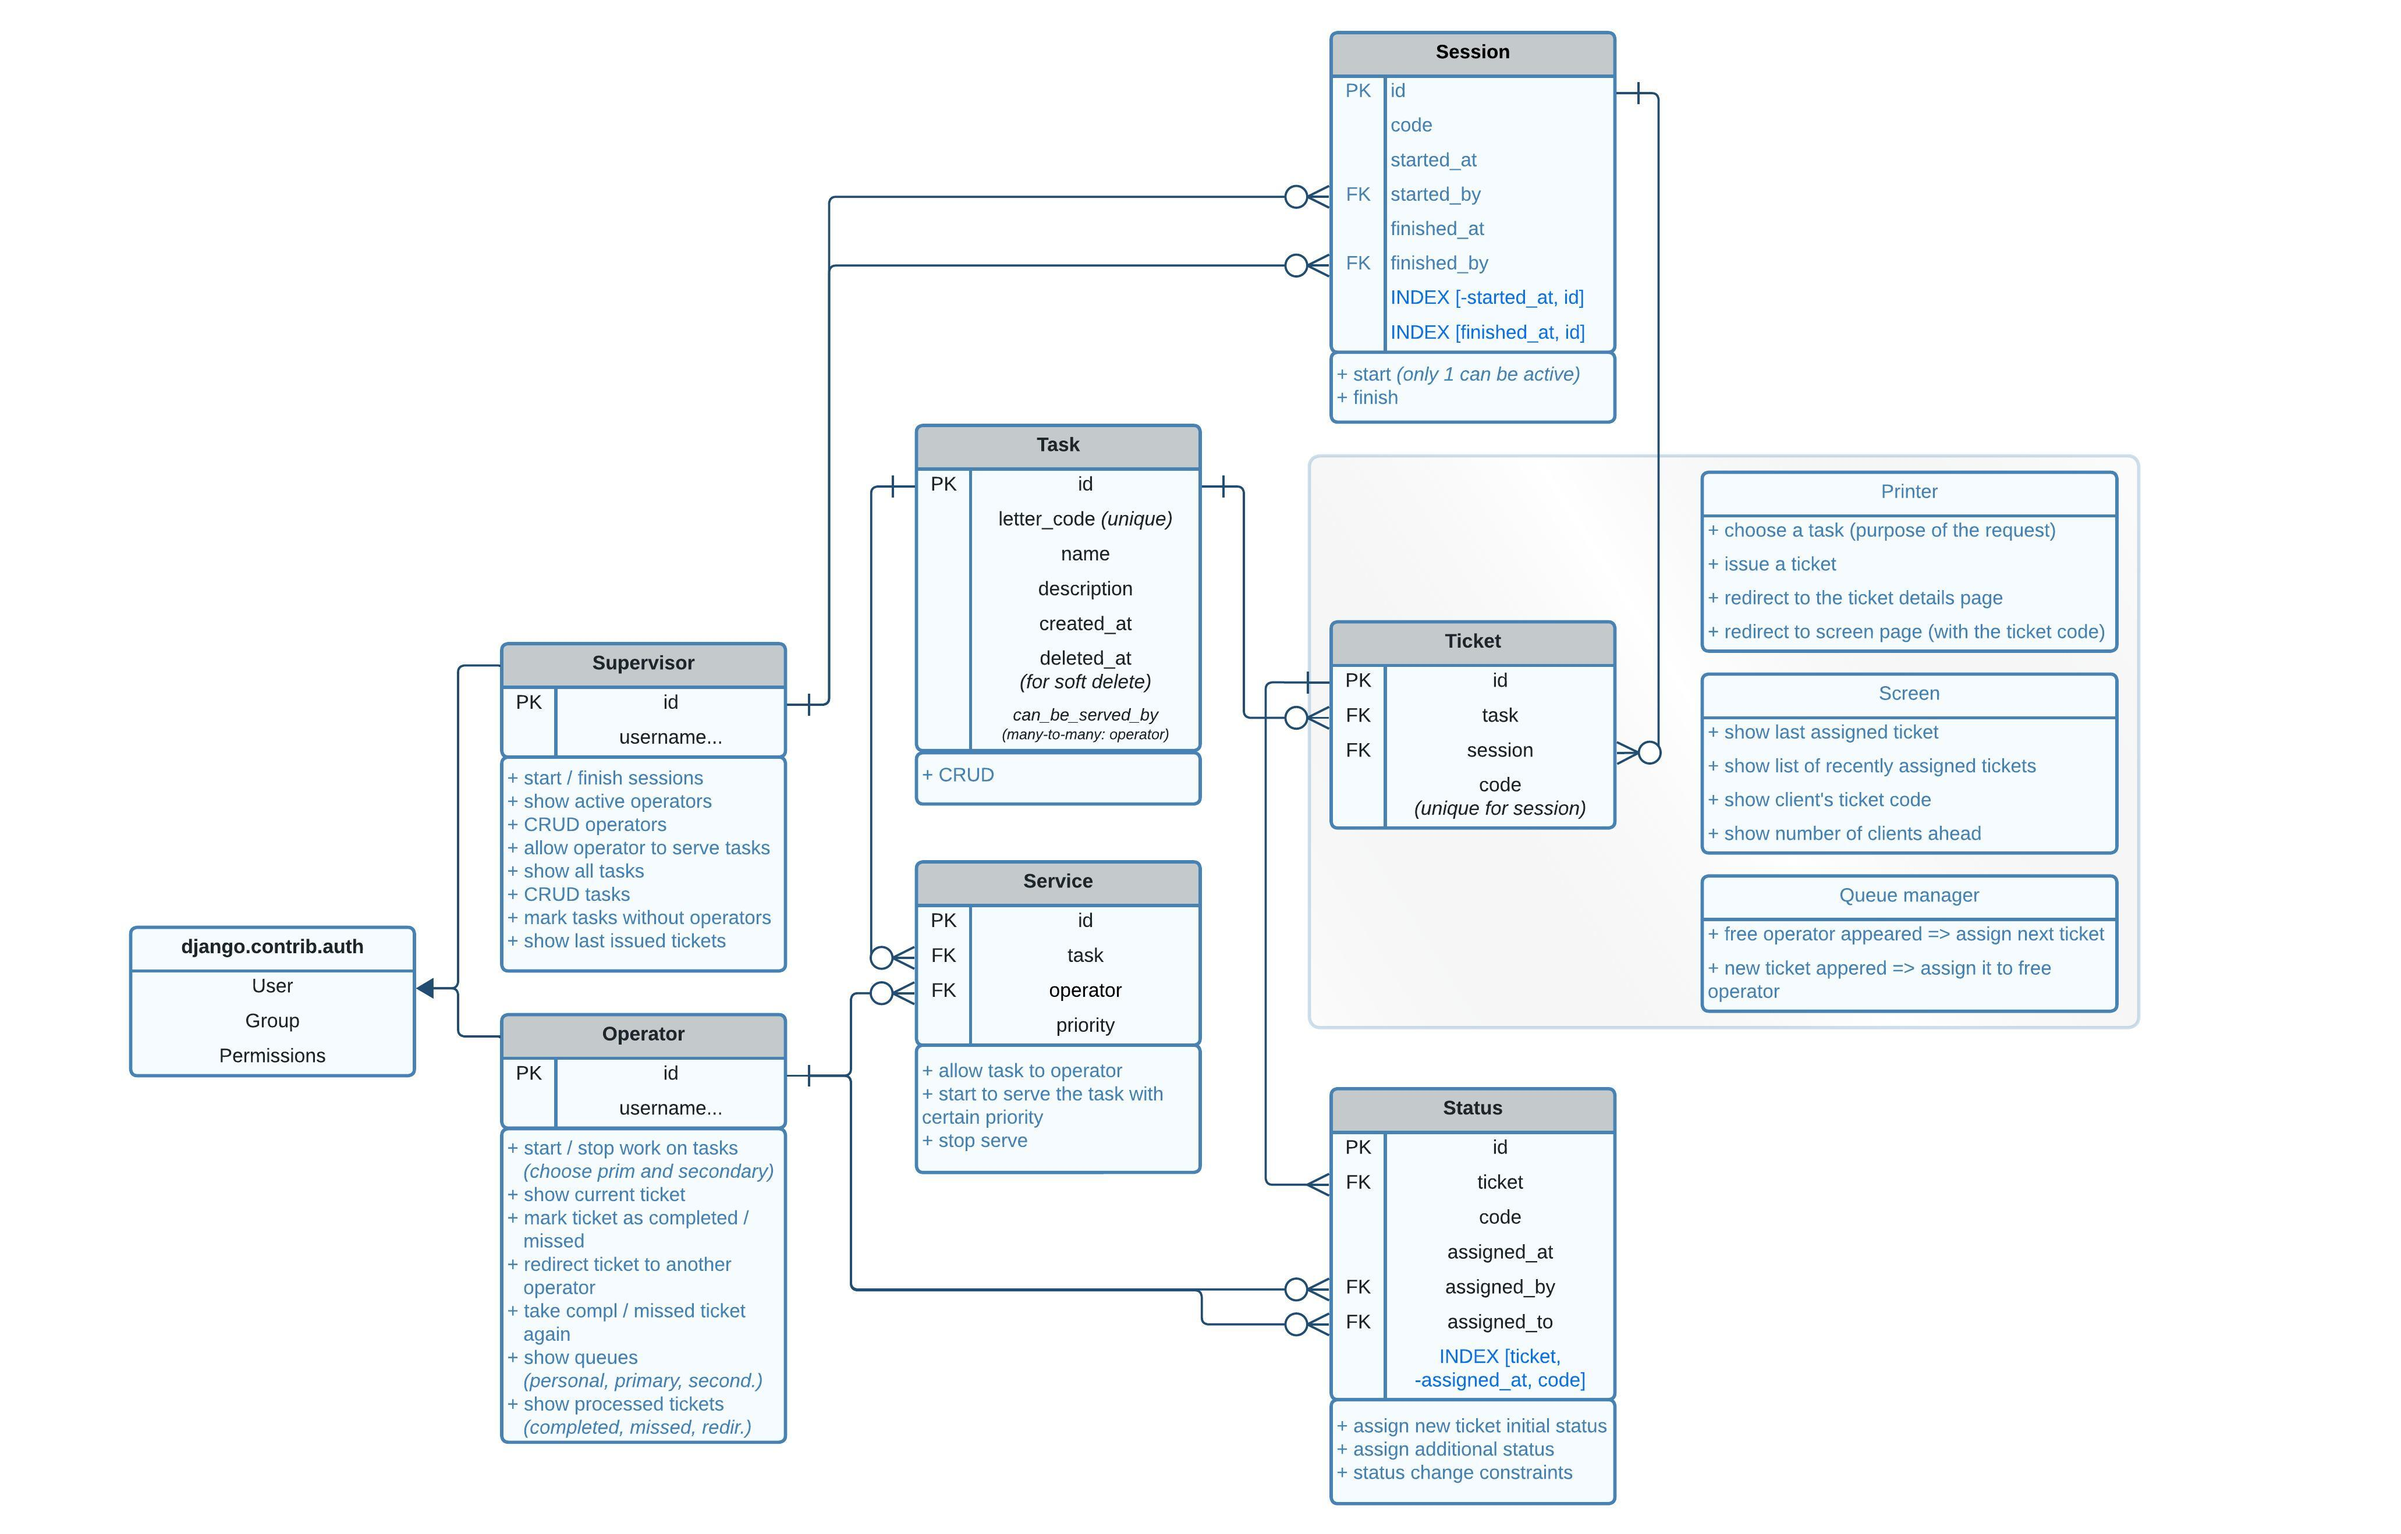
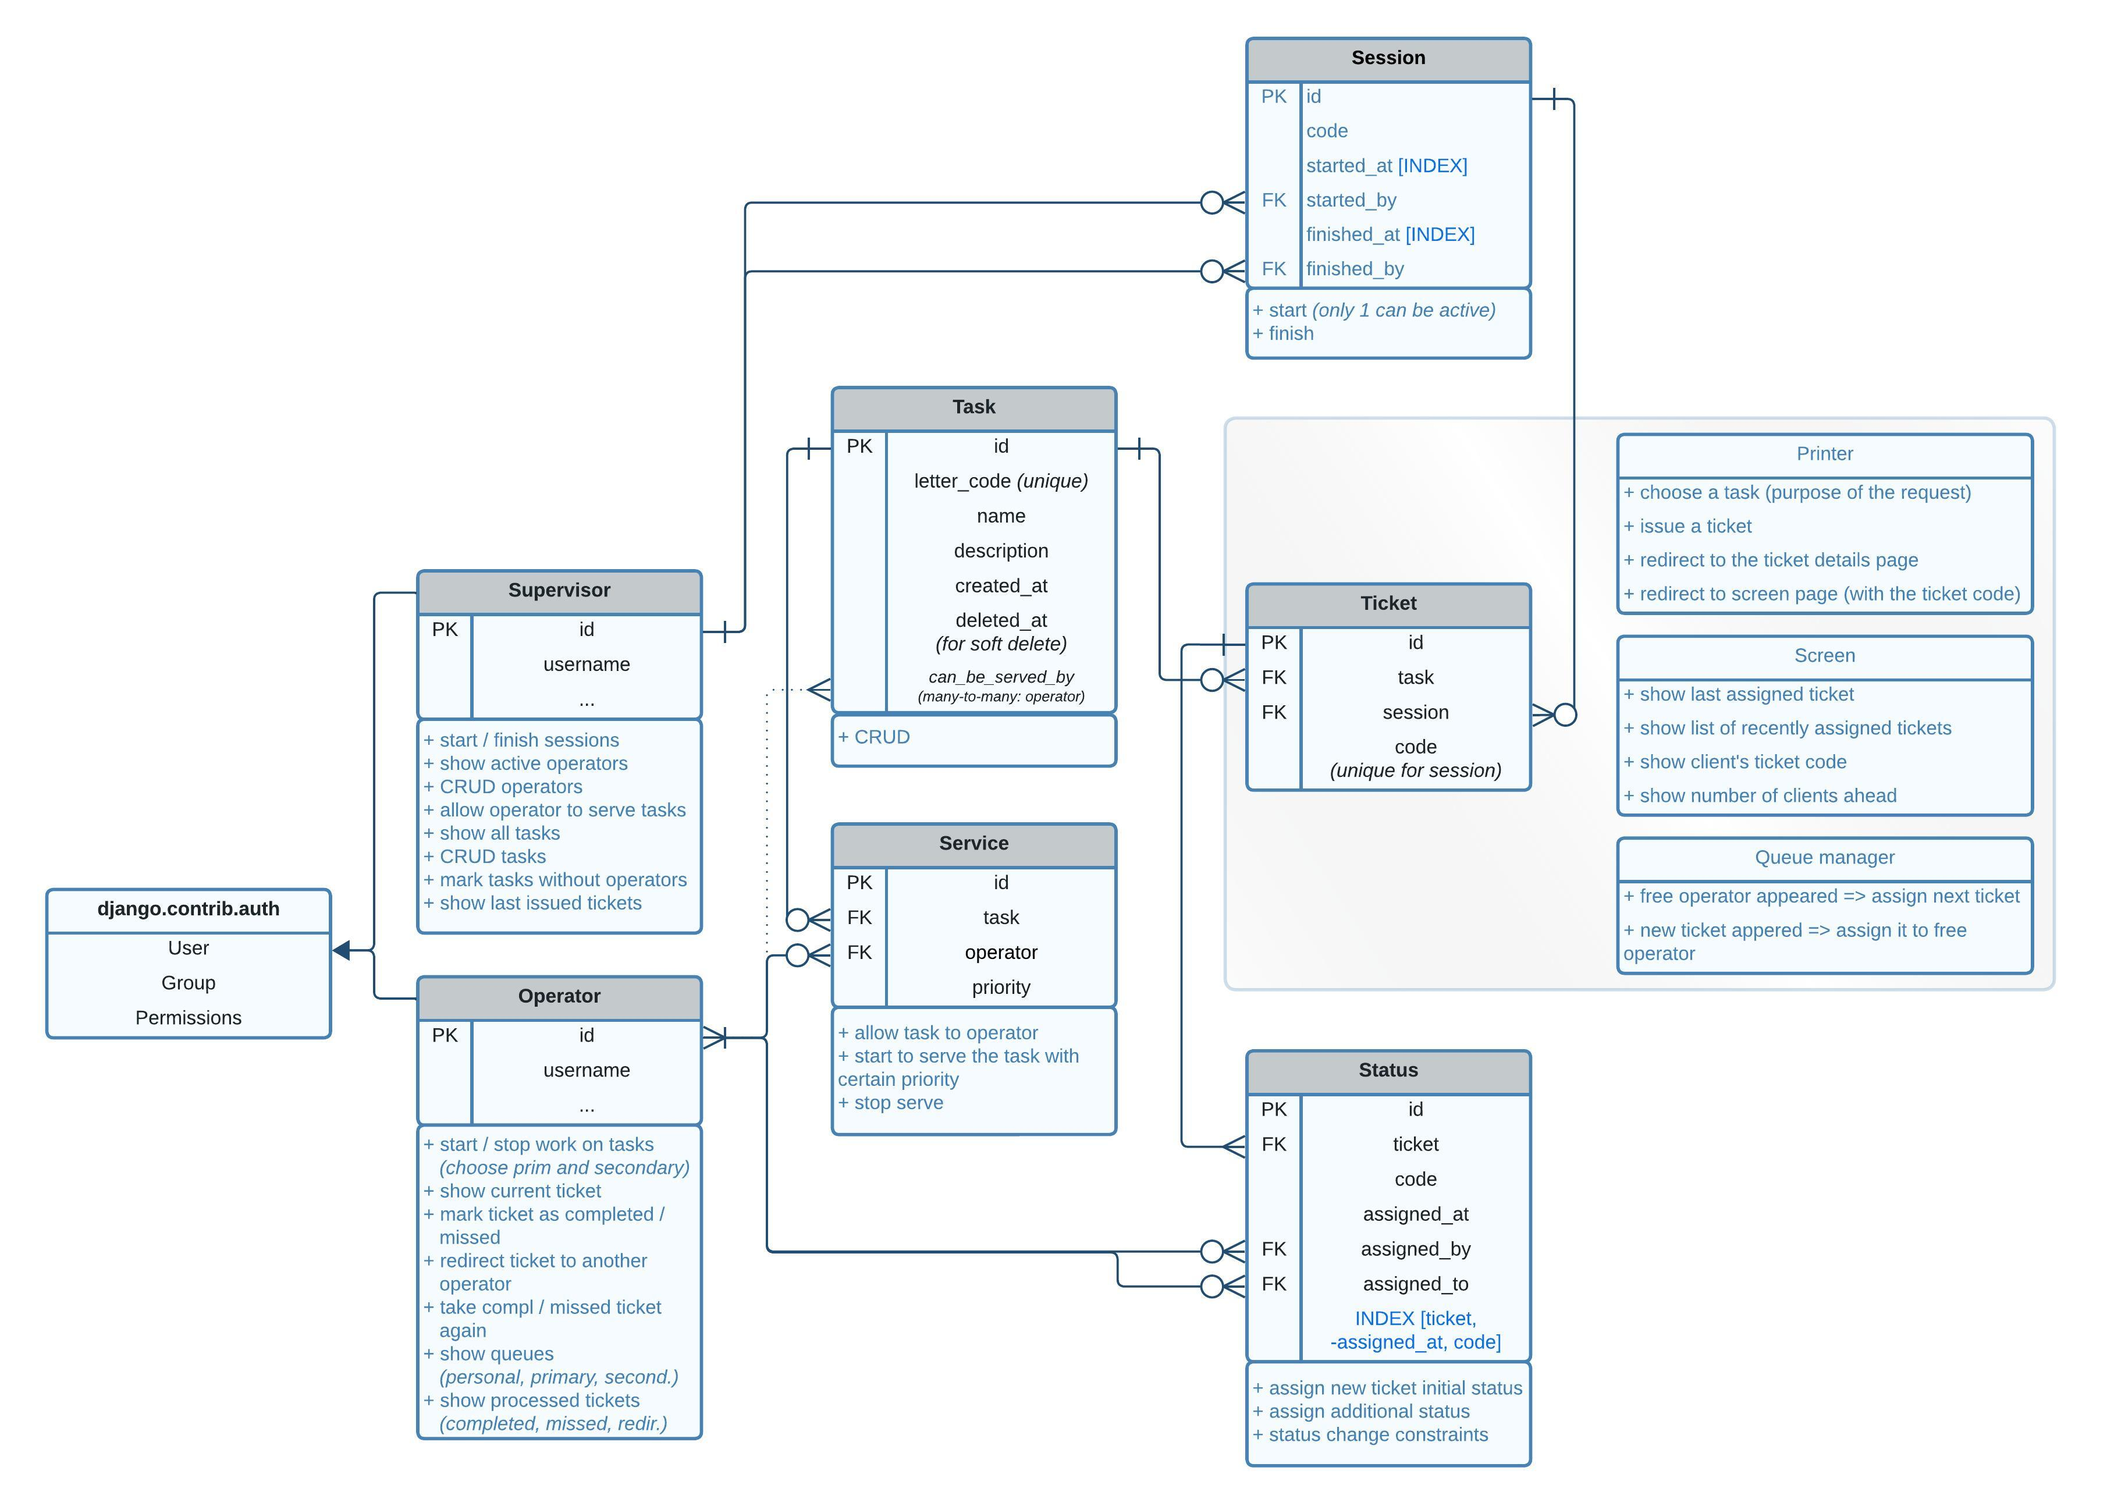
Improve session indexes

Changed region(s): [[0.0312, 0.0, 0.9674, 0.9938]]

diff --git a/queue_manager/session/migrations/0011_remove_session_started_at_idx_and_more.py b/queue_manager/session/migrations/0011_remove_session_started_at_idx_and_more.py
@@ -1,0 +1,29 @@
+# Generated by Django 4.2.4 on 2024-02-07 08:28
+
+from django.db import migrations, models
+
+
+class Migration(migrations.Migration):
+
+    dependencies = [
+        ('session', '0010_remove_session_started_at_idx_and_more'),
+    ]
+
+    operations = [
+        migrations.RemoveIndex(
+            model_name='session',
+            name='started_at_idx',
+        ),
+        migrations.RemoveIndex(
+            model_name='session',
+            name='finished_at_idx',
+        ),
+        migrations.AddIndex(
+            model_name='session',
+            index=models.Index(fields=['-started_at'], include=('id',), name='started_at_idx'),
+        ),
+        migrations.AddIndex(
+            model_name='session',
+            index=models.Index(condition=models.Q(('finished_at__isnull', True)), fields=['finished_at'], include=('id',), name='finished_at_idx'),
+        ),
+    ]

diff --git a/queue_manager/session/models.py b/queue_manager/session/models.py
@@ -1,8 +1,8 @@
 from django.db import models
+from django.db.models import Subquery, Q
 from django.contrib.auth.models import User
 from queue_manager.status.models import Status
 from datetime import datetime, timezone
-from django.db.models import Subquery
 
 ITEM_NAME = 'session'
 
@@ -158,9 +158,14 @@ class Session(models.Model):
     class Meta:
         indexes = [
             models.Index(
-                fields=['-started_at', 'id'], name='started_at_idx'),
+                fields=['-started_at'],
+                include=['id'],
+                name='started_at_idx'),
             models.Index(
-                fields=['finished_at', 'id'], name='finished_at_idx')]
+                fields=['finished_at'],
+                include=['id', 'code'],
+                condition=Q(finished_at__isnull=True),
+                name='finished_at_idx')]
 
     @property
     def is_active(self):

diff --git a/queue_manager/session/migrations/0012_remove_session_finished_at_idx_and_more.py b/queue_manager/session/migrations/0012_remove_session_finished_at_idx_and_more.py
@@ -1,0 +1,21 @@
+# Generated by Django 4.2.4 on 2024-02-07 08:34
+
+from django.db import migrations, models
+
+
+class Migration(migrations.Migration):
+
+    dependencies = [
+        ('session', '0011_remove_session_started_at_idx_and_more'),
+    ]
+
+    operations = [
+        migrations.RemoveIndex(
+            model_name='session',
+            name='finished_at_idx',
+        ),
+        migrations.AddIndex(
+            model_name='session',
+            index=models.Index(condition=models.Q(('finished_at__isnull', True)), fields=['finished_at'], include=('id', 'code'), name='finished_at_idx'),
+        ),
+    ]
